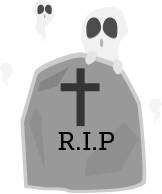
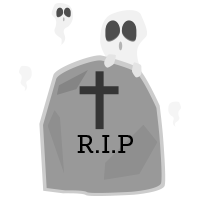
up

diff --git a/client/index.html b/client/index.html
@@ -445,7 +445,7 @@
 					'<div id="ctl" style=\'position:absolute;z-index:2\'></div>')
 				$('#mhead').html('Friendlab')
 				$('#rhead').html('<a href="#" onclick="minigame()"><img src="images/mini.png" style="width:36px"></a>')
-				$('#lhead').html('<a href="#" onclick="kill()"><img src="images/reset.png" style="width:32px"></a>')
+				$('#lhead').html('<a href="#" onclick="kill_b()"><img src="images/reset.png" style="width:32px"></a>')
 				$('#stl').css({'margin-top':'0','margin-left':'0'})
 				$('#stl').html(
 					'<table border="0" width="100%" style="width: 20em;" >'+
@@ -528,9 +528,9 @@
 					if(q.sleep==0){
 						q.energy = parseInt(q.energy,10)-diff
 						if(q.energy<0)q.energy=0
-							q.hungry = parseInt(q.hungry,10)-diff
+						q.hungry = parseInt(q.hungry,10)-diff
 						if(q.hungry<0)q.hungry=0
-							q.clean = parseInt(q.clean,10)-diff
+						q.clean = parseInt(q.clean,10)-diff
 						if(q.clean<0)q.clean=0
 
 						int_decrease = setInterval(decrease,900000)
@@ -542,16 +542,50 @@
 
 						clearInterval(int_decrease)
 						int_sleep = setInterval(sleepmode,6000)
-
-					}else{
-
 					}
 					q.edit = time
 					post(q)
 					update(q)
 					rt()
+					if(q.energy==0 || q.clean==0 || q.hungry==0){
+						dead()
+					}
 				})
 				console.log("init_main finish")
+			}
+
+			function dead(){
+				console.log('dead start')
+				$('#content').append('<div id="deadwindow" style="position:absolute;z-index:100;height:524;width:320;background-image:url(\'bg/dead.png\');background-size:contain"><a href="#" onclick="kill_a()"><img src=images/deadcaption.png style="margin:100 10"></a></div>')
+				console.log('dead finish')
+			}
+
+			function kill_c(){
+				console.log('kill c start')
+				$('#deadwindow').html('')
+				$('#deadwindow').css({'background-image':''})
+				console.log('kill c finish')
+			}
+
+			function kill_b(){
+				console.log('kill b start')
+				$('#content').append('<div id="deadwindow" style="text-align:center;position:absolute;z-index:100;height:524;width:320;background-image:url(\'bg/dead.png\');background-size:contain">'+
+						'<img src=images/dead.png style="margin:30 60">'+
+						'<h3>Do you want to kill your friend?</h3>'+
+						'<a href="#" onclick="kill_a()"><img src=images/yes.png style="width:100"></a>'+
+						'<a href="#" onclick="kill_c()"><img src=images/no.png style="width:100"></a>'+
+					'</div>')
+				console.log('kill b finish')
+			}
+
+			function kill_a(){
+				console.log('kill a start')
+				$('#deadwindow').fadeOut(5000,function(){
+					$('#deadwindow').html('')
+					$('#deadwindow').css({'background-image':''})
+					kill()
+				})
+				console.log('kill a finish')
 			}
 
 			function rt(){
